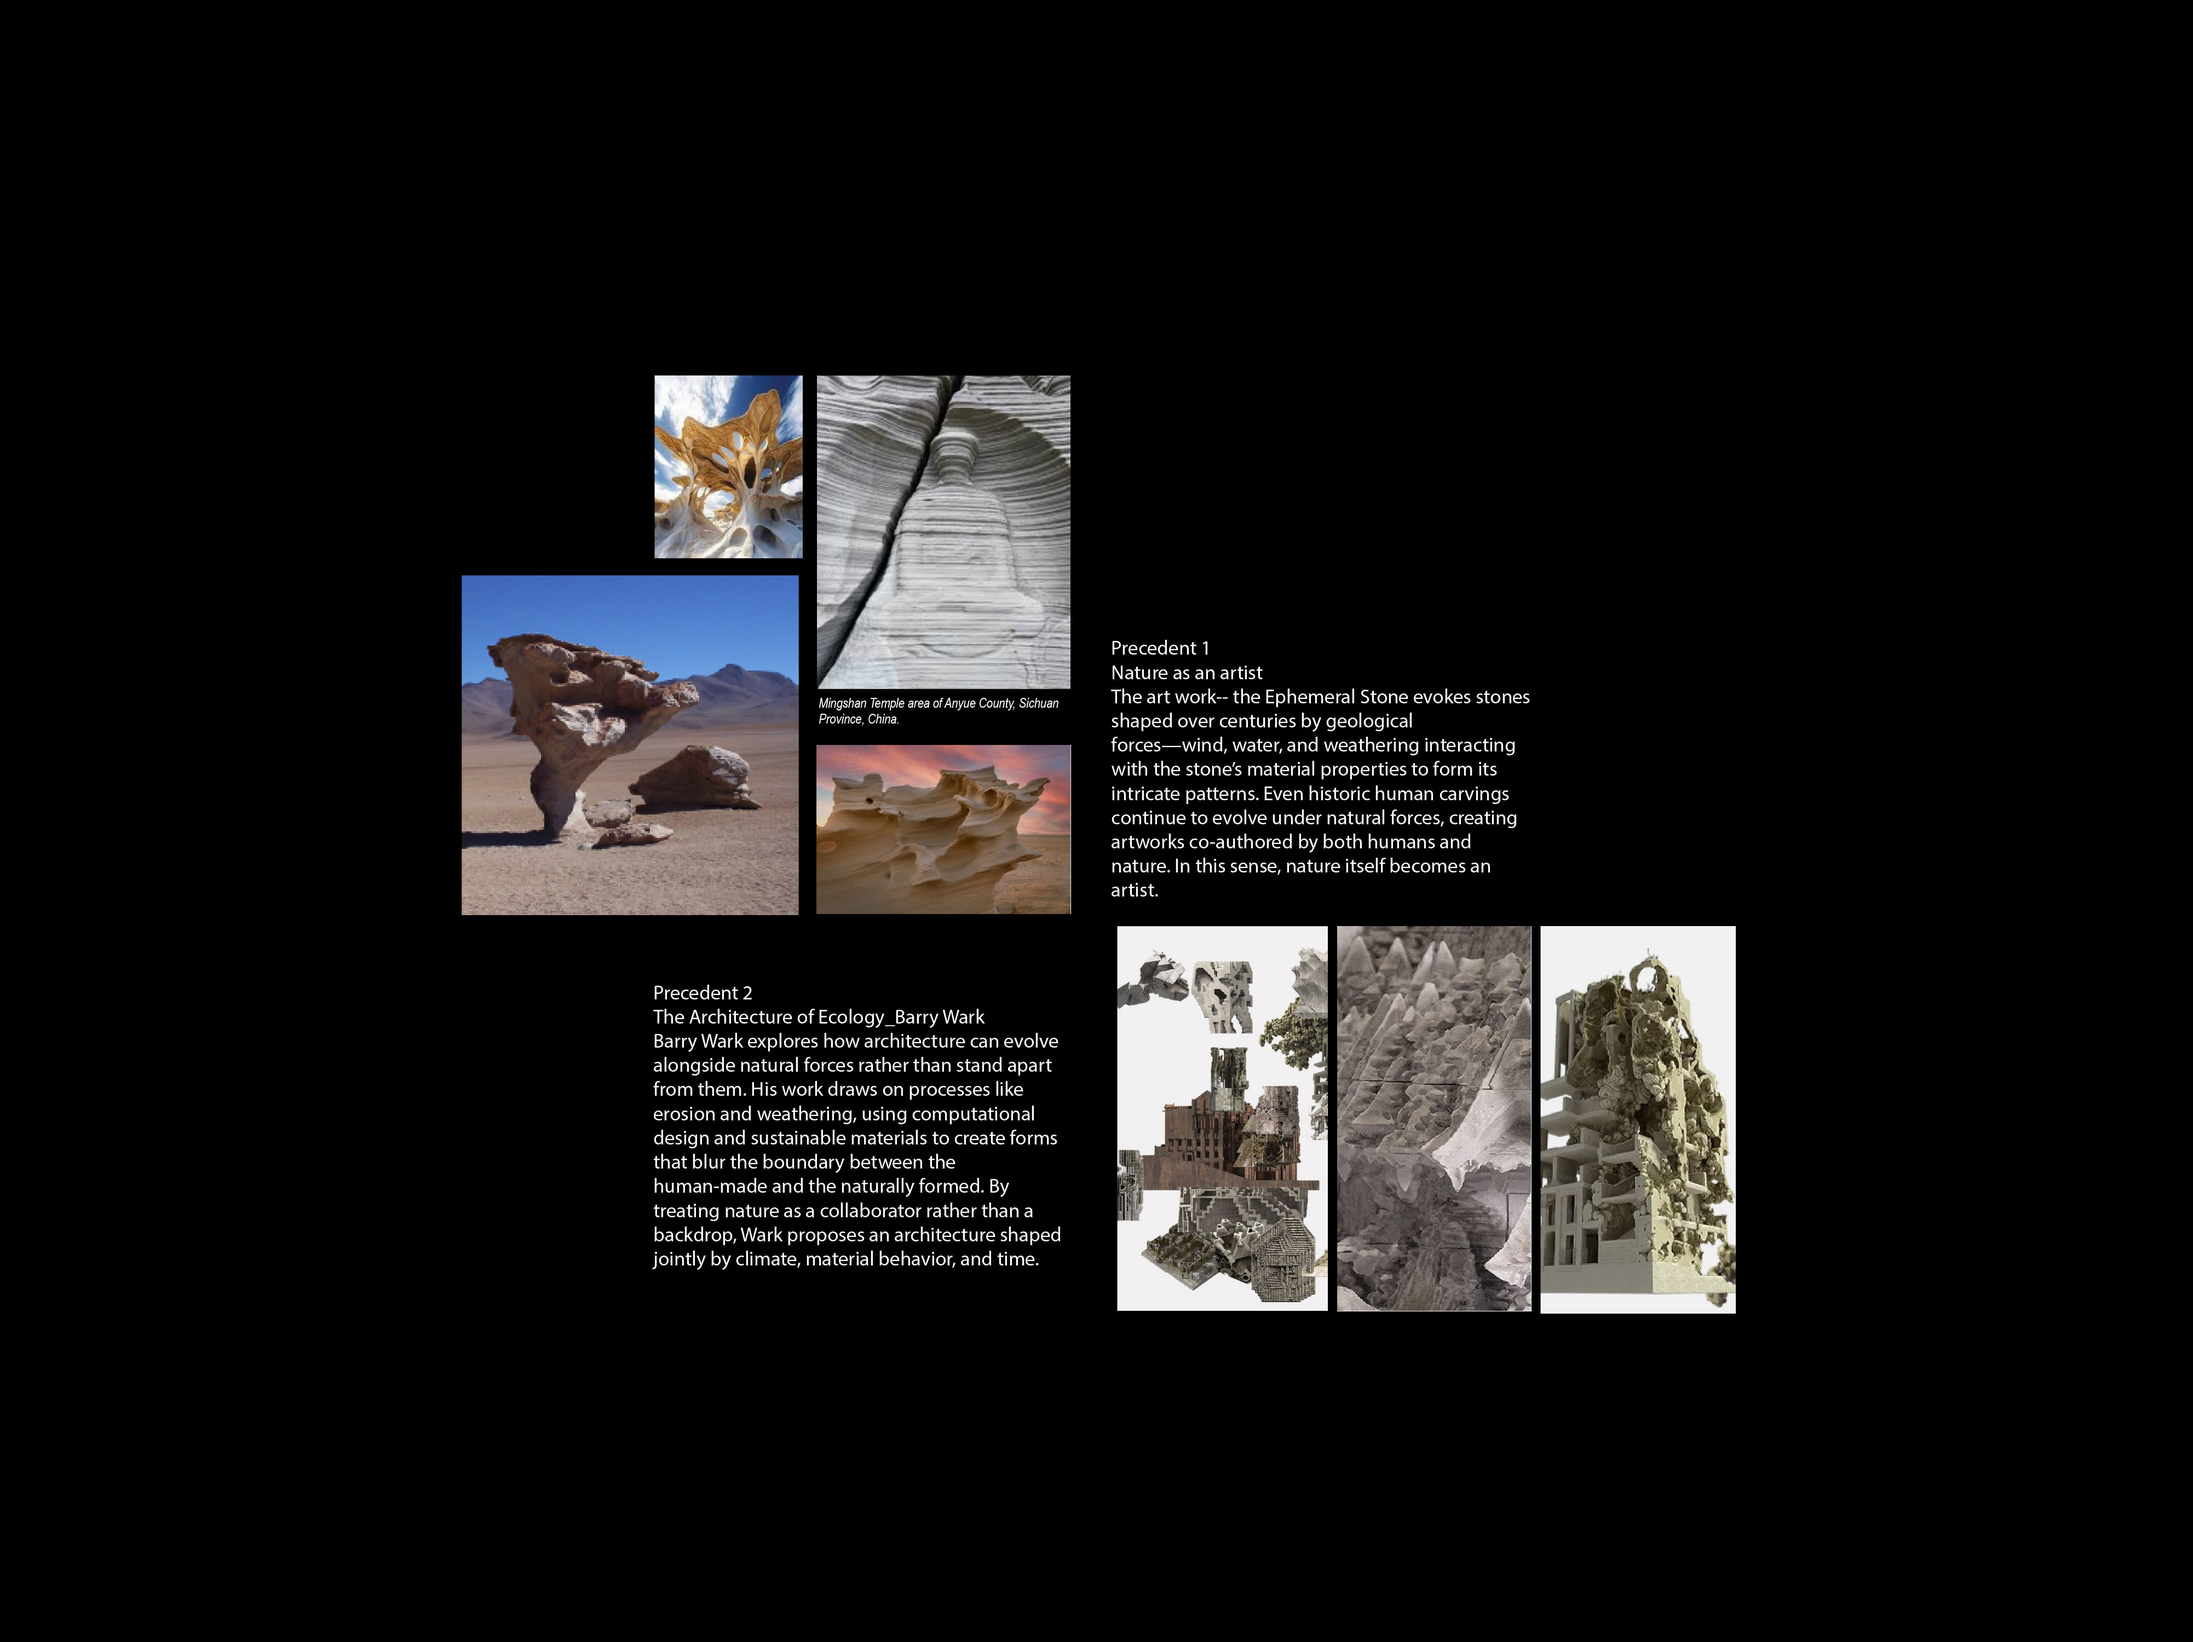
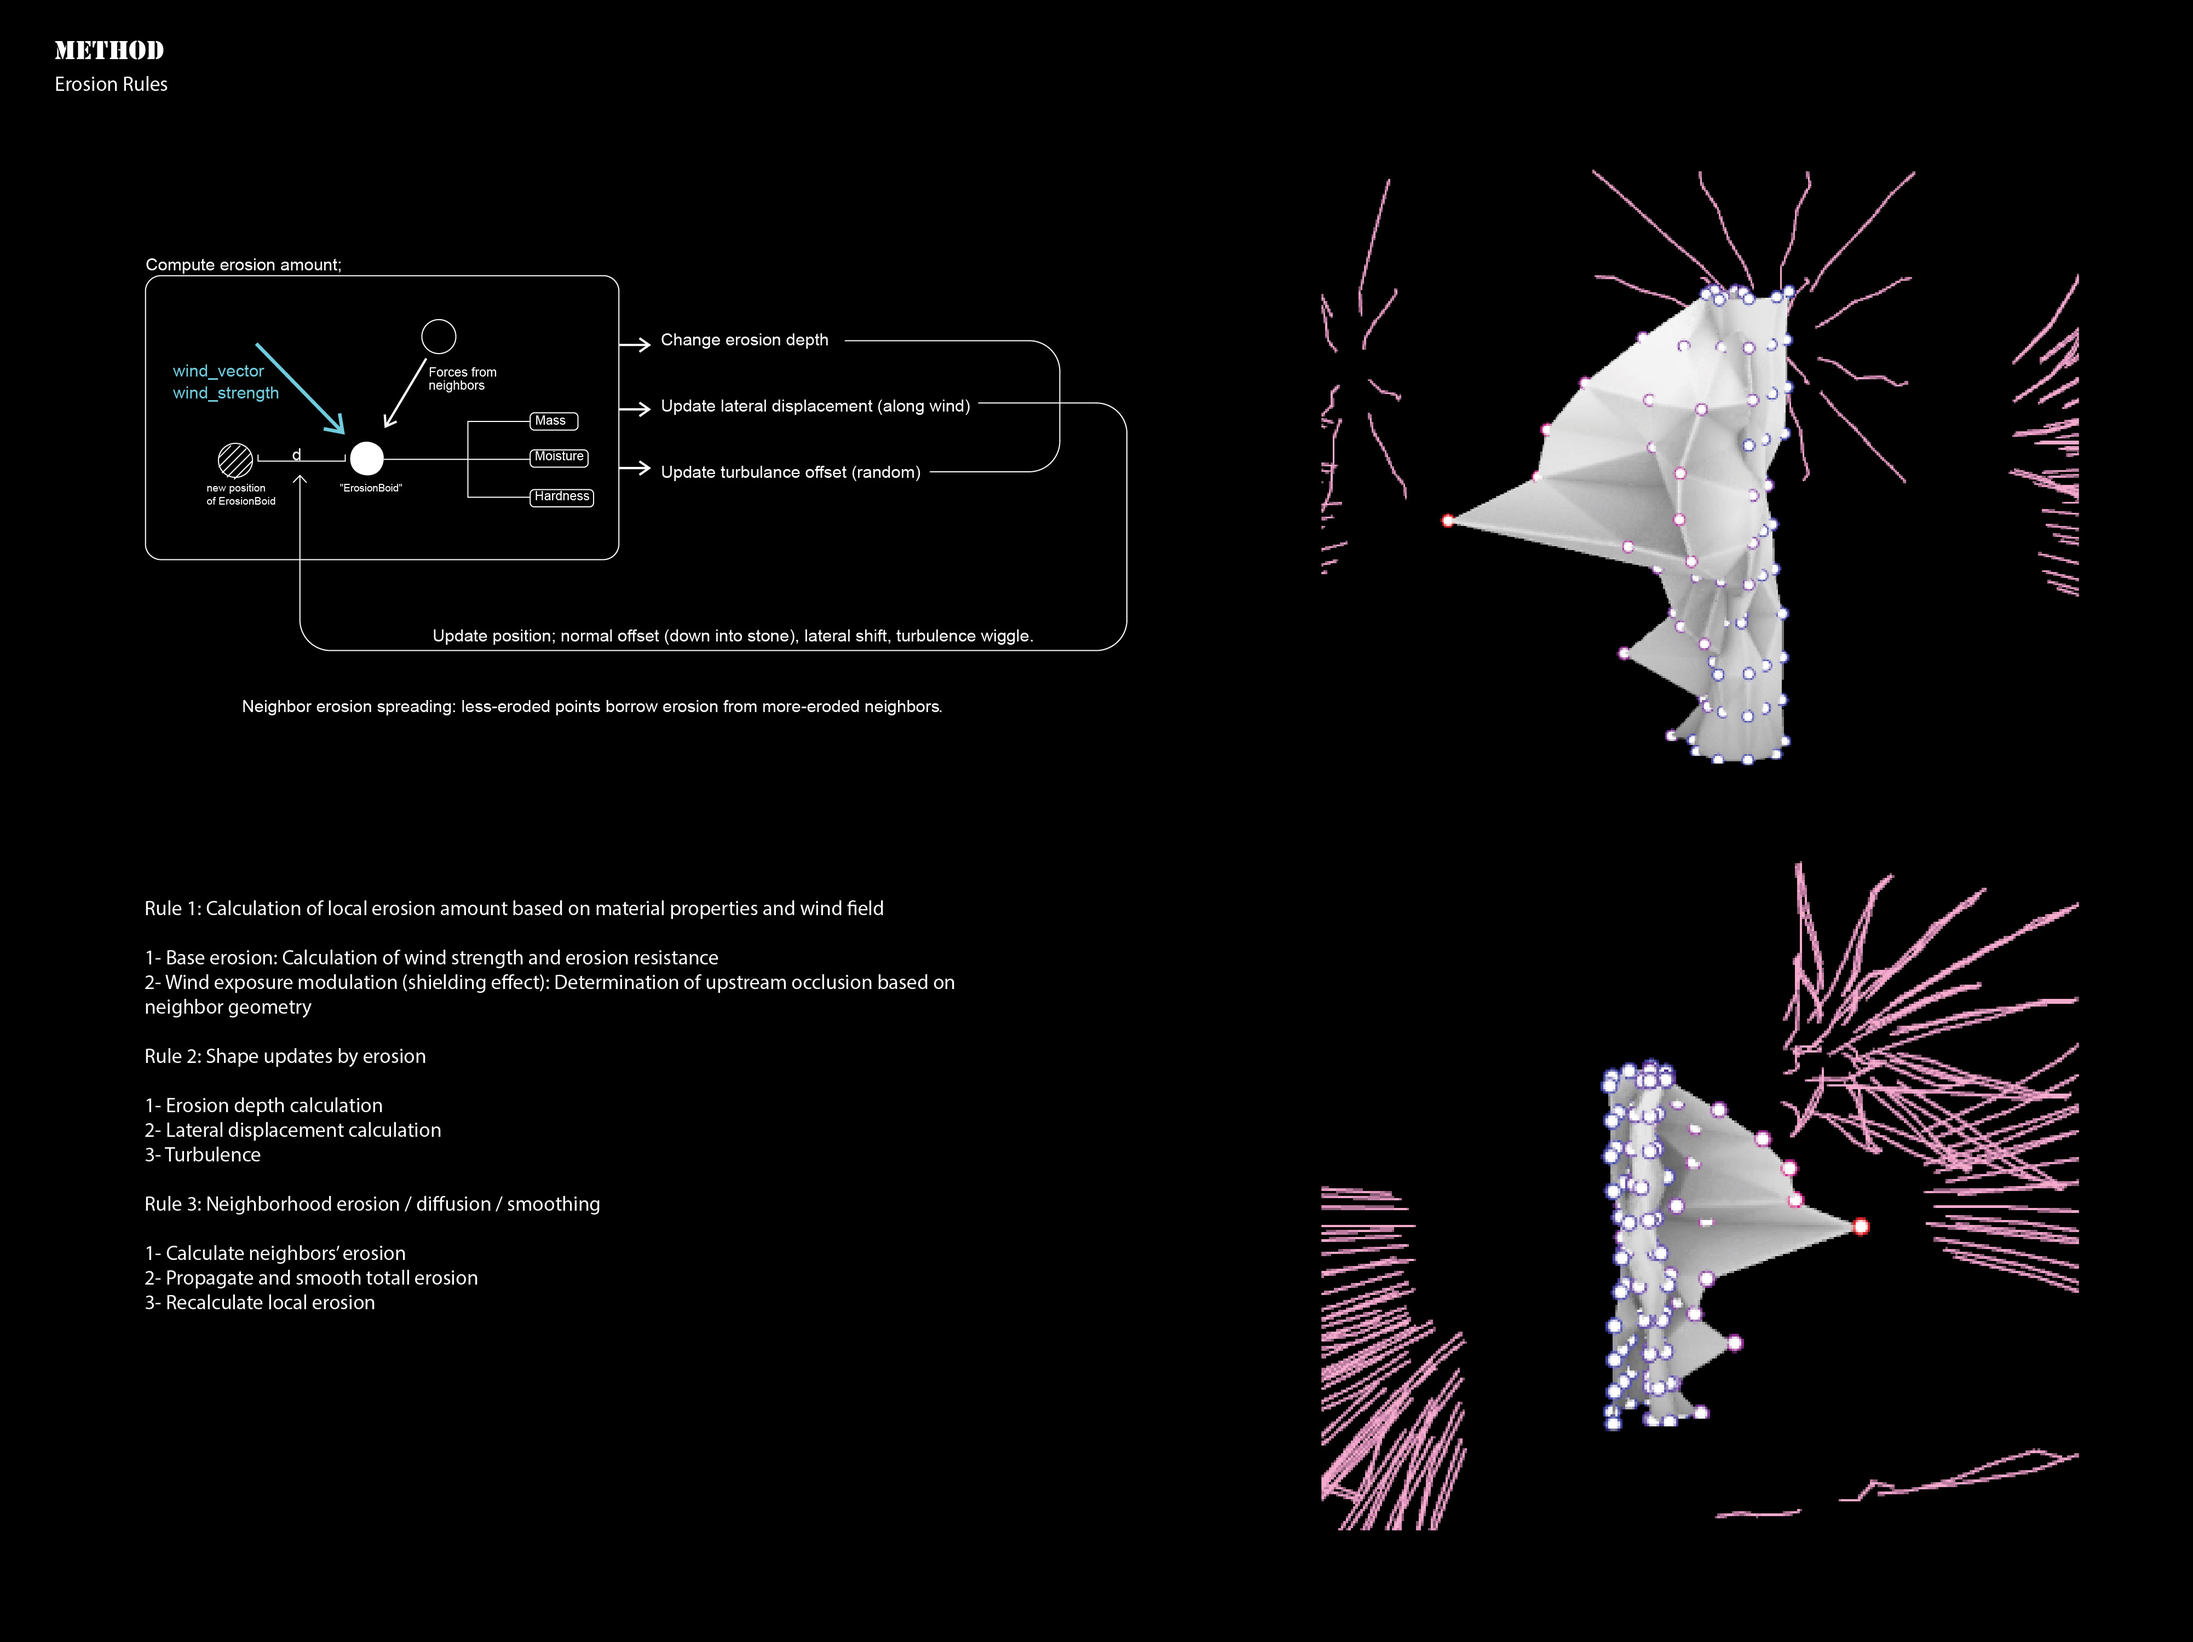
windstone2

diff --git a/windstone.html b/windstone.html
@@ -188,7 +188,7 @@ body::after{
     <div class="main-content">
         <div class="featured-image">
             <button class="arrow left">&#8249;</button>
-            <img src="windstone_PortfolioImage/windstone-06.jpg" alt="Featured image">
+            <img src="windstone_PortfolioImage/windstone-05.jpg" alt="Featured image">
             <button class="arrow right">&#8250;</button>
         </div>
 
@@ -198,7 +198,6 @@ body::after{
             <img src="windstone_PortfolioImage/windstone-03.jpg" alt="">
             <img src="windstone_PortfolioImage/windstone-04.jpg" alt="">
             <img src="windstone_PortfolioImage/windstone-05.jpg" alt="">
-            <img src="windstone_PortfolioImage/windstone-06.jpg" alt="">
         </div>
     </div>
 </div>
